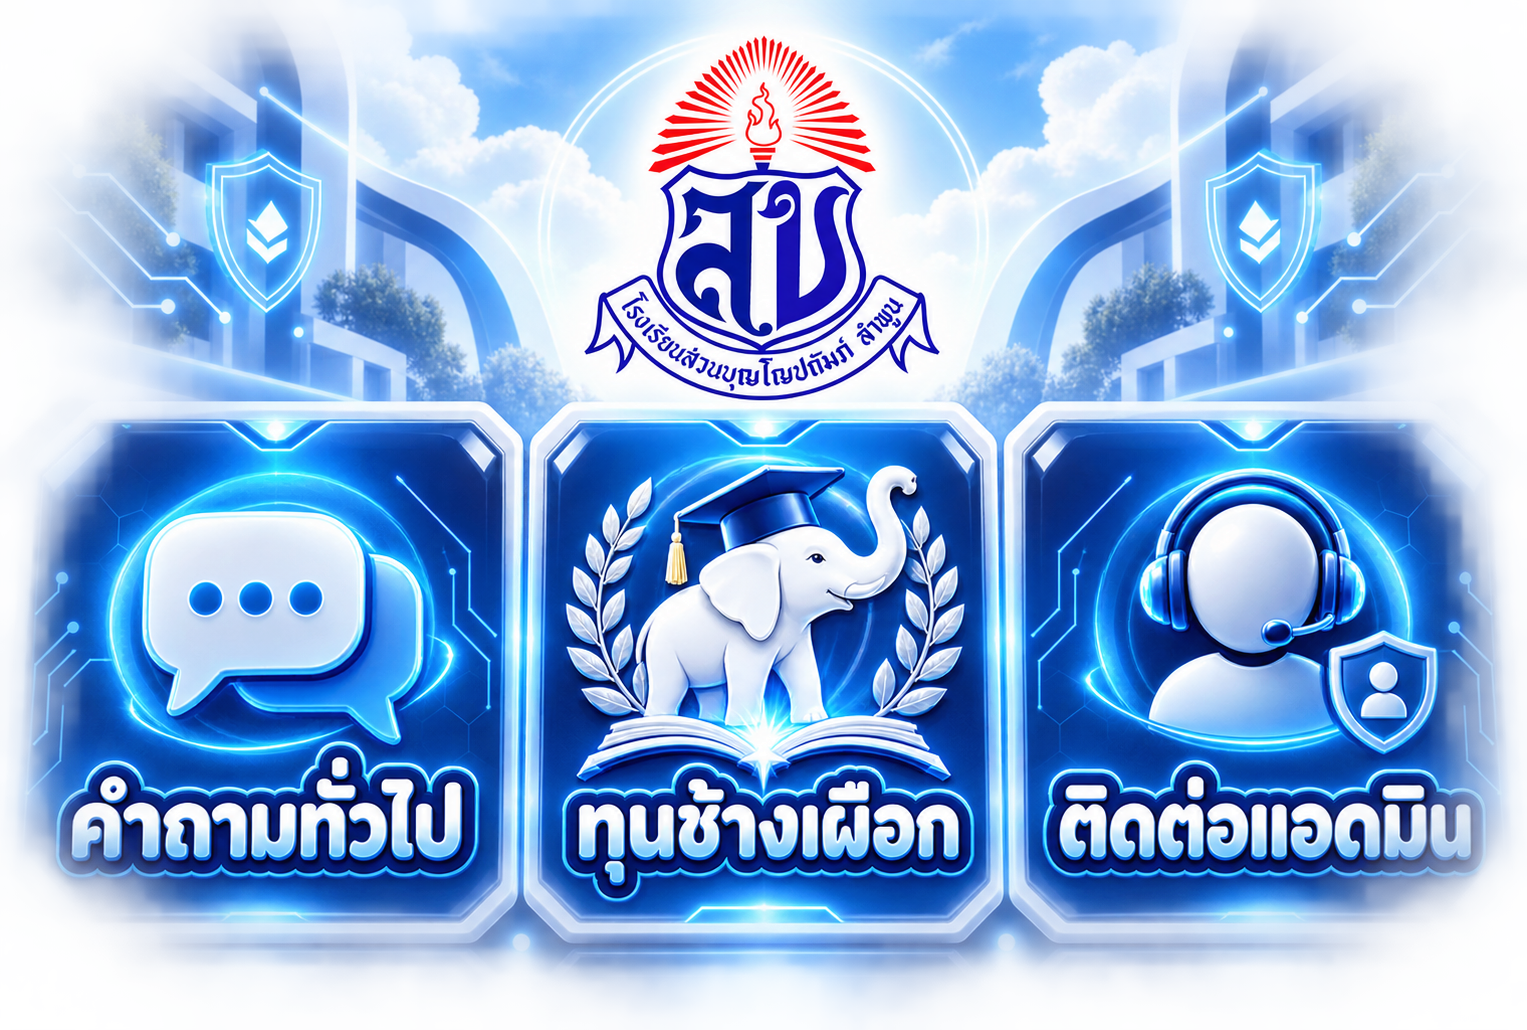
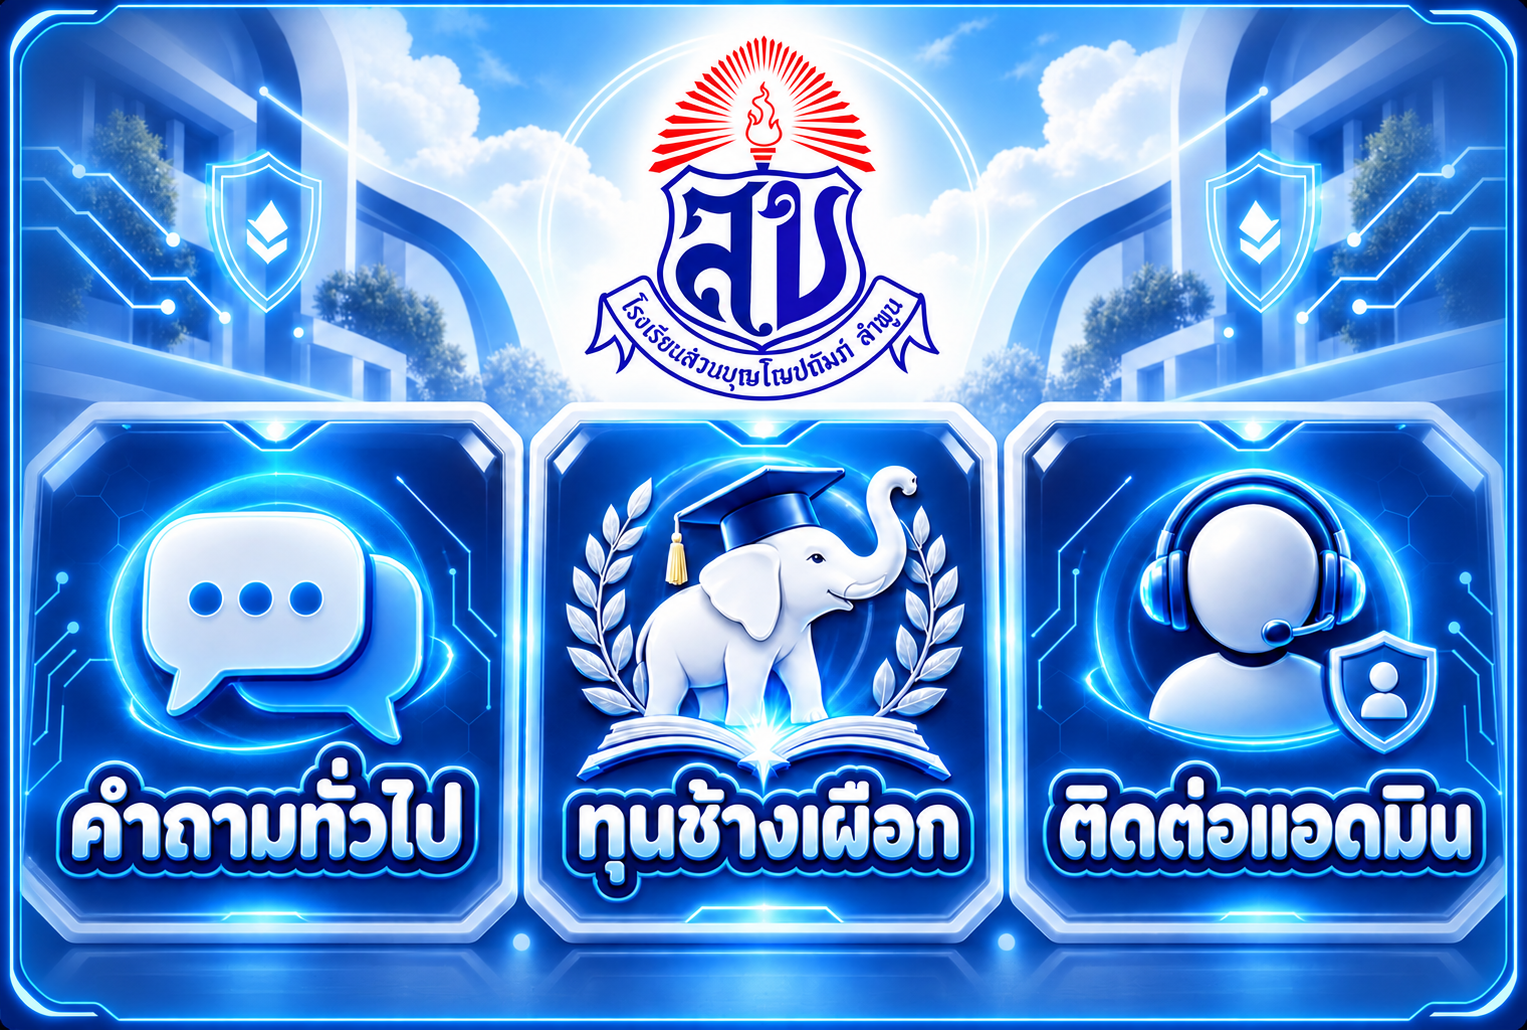
Refine generated rich menu border

diff --git a/src/richMenu.js b/src/richMenu.js
@@ -1,4 +1,4 @@
-const RICH_MENU_NAME = "SBY Chatbot Modes v5";
+const RICH_MENU_NAME = "SBY Chatbot Modes v6";
 const RICH_MENU_IMAGE_TYPE = "image/jpeg";
 
 const MODE_MENU_ACTIONS = [
